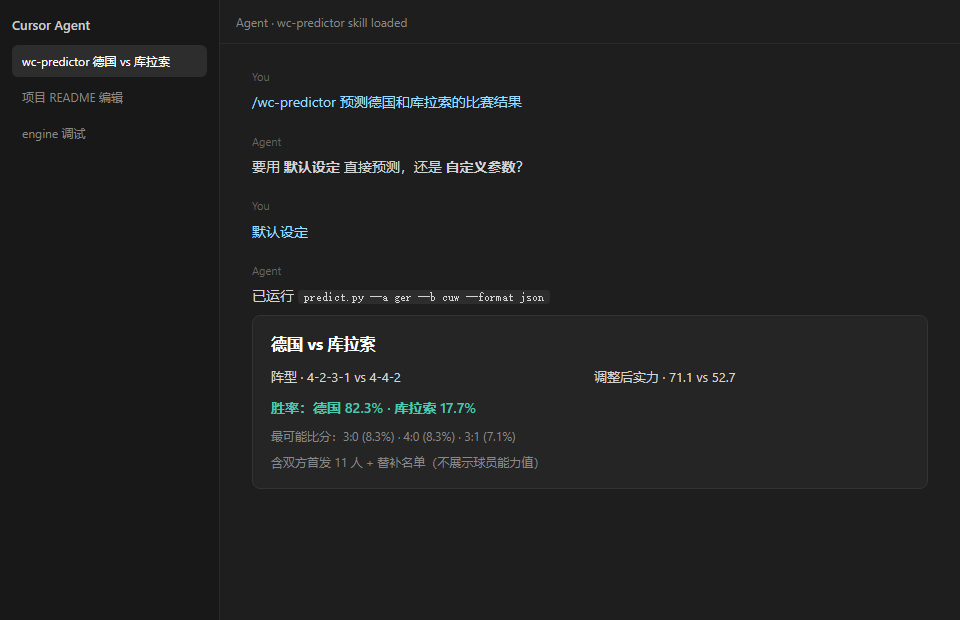
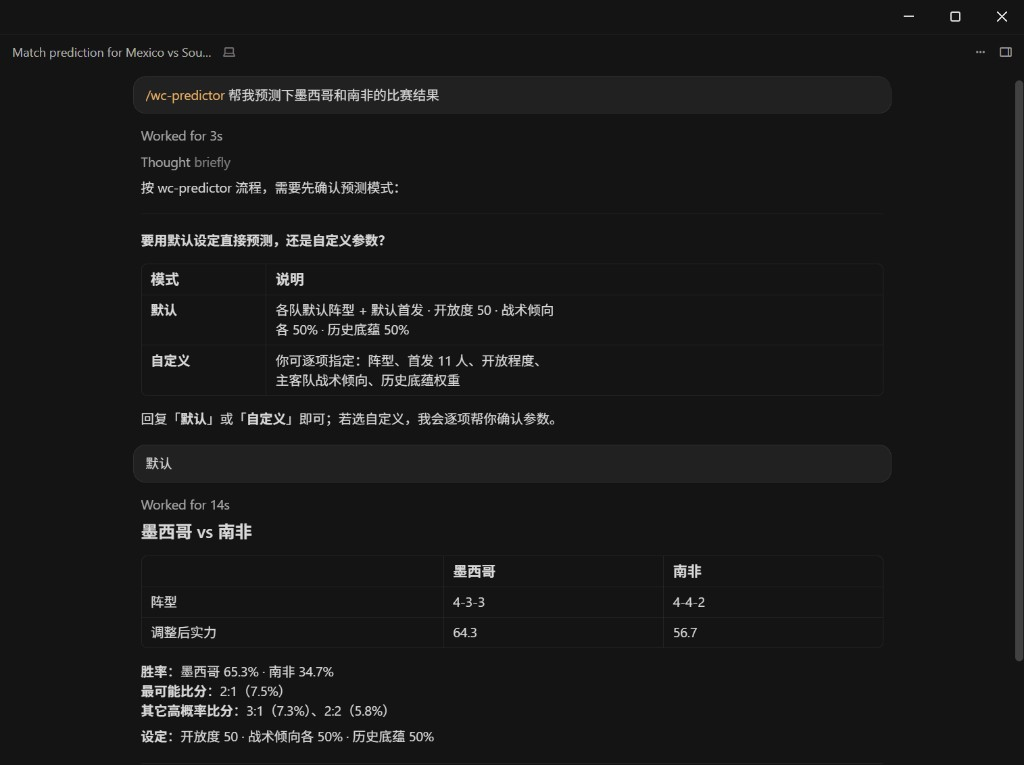
docs: update Cursor demo screenshot and GitHub install URLs
Replace mock preview with real wc-predictor chat capture; point AGENTS.md to Nehs919/wc-predictor-skill.

diff --git a/docs/AGENTS.md b/docs/AGENTS.md
@@ -59,17 +59,17 @@ cp -r /path/to/wc-predictor-skill/wc-predictor/* ~/.hermes/skills/wc-predictor/
 hermes skills list    # 确认 wc-predictor 已出现
 ```
 
-### 方式 B：从 GitHub 安装（仓库公开后）
+### 方式 B：从 GitHub 安装
 
-将 `<owner>` 替换为你的 GitHub 用户名或组织：
+仓库：[github.com/Nehs919/wc-predictor-skill](https://github.com/Nehs919/wc-predictor-skill)
 
 ```bash
 # 克隆后复制
-git clone https://github.com/<owner>/wc-predictor-skill.git
+git clone https://github.com/Nehs919/wc-predictor-skill.git
 cp -r wc-predictor-skill/wc-predictor ~/.hermes/skills/wc-predictor
 
 # 或安装远程 SKILL.md（单文件入口；仍需自行保证 scripts/ 与 data/ 在同目录）
-hermes skills install https://raw.githubusercontent.com/<owner>/wc-predictor-skill/main/wc-predictor/SKILL.md --name wc-predictor
+hermes skills install https://raw.githubusercontent.com/Nehs919/wc-predictor-skill/master/wc-predictor/SKILL.md --name wc-predictor
 ```
 
 若使用方式 B 的单文件安装，请确认 `scripts/`、`data/`、`references/` 与 `SKILL.md` 在同一 skill 目录下。
@@ -150,5 +150,5 @@ python tools/fix_player_name_en.py
 - **Requires:** Python 3.10+, `PYTHONUTF8=1` on Windows if needed.
 - **Paths:** Cursor `~/.cursor/skills/`, Hermes `~/.hermes/skills/`, Claude `~/.claude/skills/`, Codex/multi-agent `~/.agents/skills/`, Gemini `~/.gemini/skills/`.
 - **Verify:** `python <skill-root>/scripts/predict.py --list-teams`
-- **Hermes:** `hermes skills list` after copy; see [Hermes skills docs](https://hermes-agent.nousresearch.com/docs/guides/work-with-skills).
+- **Hermes:** `hermes skills list` after copy; or `git clone https://github.com/Nehs919/wc-predictor-skill.git`; see [Hermes skills docs](https://hermes-agent.nousresearch.com/docs/guides/work-with-skills).
 - **Usage:** same workflow as Cursor — mode gate → CLI → formatted output per `SKILL.md`.